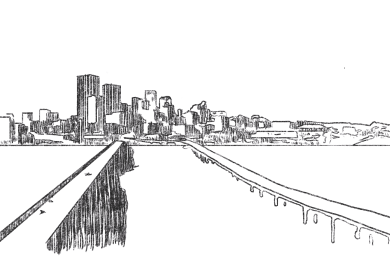
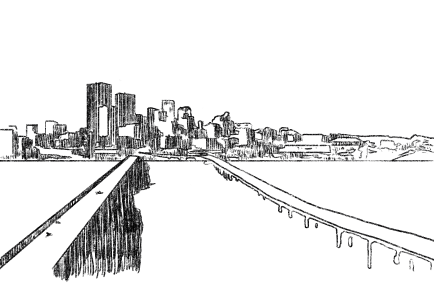
Refined Dallas and Boston

diff --git a/css/style.less b/css/style.less
@@ -653,14 +653,22 @@ h1, h2, h3, h4, h5 { margin: 0; }
 
 
 // boston
-.bos .container:before { background-image: url('../img/bgBoston.png'); }
+.bos .container:before { 
+    background-image: url('../img/bgBoston.png');
+    background-size: auto;
+    background-position: center bottom 37px;
+ }
 @media (-webkit-min-device-pixel-ratio: 2), (min-resolution: 192dpi) {
     .bos .container:before {
         background-image: url('../img/bgBoston@2x.png');
     }
 }
 // dallas
-.dal .container:before { background-image: url('../img/bgDallas.png'); }
+.dal .container:before { 
+    background-image: url('../img/bgDallas.png'); 
+    background-size: auto;
+    background-position: center bottom 21px;
+}
 @media (-webkit-min-device-pixel-ratio: 2), (min-resolution: 192dpi) {
     .dal .container:before {
         background-image: url('../img/bgDallas@2x.png');
@@ -688,7 +696,11 @@ h1, h2, h3, h4, h5 { margin: 0; }
     }
 }
 // philly
-.phi .container:before { background-image: url('../img/bgPhilly.png'); background-position: center bottom 25px; }
+.phi .container:before { 
+    background-image: url('../img/bgPhilly.png'); 
+    background-position: center bottom 25px; 
+    background-size: auto;
+}
 @media (-webkit-min-device-pixel-ratio: 2), (min-resolution: 192dpi) {
     .phi .container:before {
         background-image: url('../img/bgPhilly@2x.png');

diff --git a/css/style.css b/css/style.css
@@ -704,6 +704,8 @@ h5 {
 }
 .bos .container:before {
   background-image: url('../img/bgBoston.png');
+  background-size: auto;
+  background-position: center bottom 37px;
 }
 @media (-webkit-min-device-pixel-ratio: 2), (min-resolution: 192dpi) {
   .bos .container:before {
@@ -712,6 +714,8 @@ h5 {
 }
 .dal .container:before {
   background-image: url('../img/bgDallas.png');
+  background-size: auto;
+  background-position: center bottom 21px;
 }
 @media (-webkit-min-device-pixel-ratio: 2), (min-resolution: 192dpi) {
   .dal .container:before {
@@ -745,6 +749,7 @@ h5 {
 .phi .container:before {
   background-image: url('../img/bgPhilly.png');
   background-position: center bottom 25px;
+  background-size: auto;
 }
 @media (-webkit-min-device-pixel-ratio: 2), (min-resolution: 192dpi) {
   .phi .container:before {
